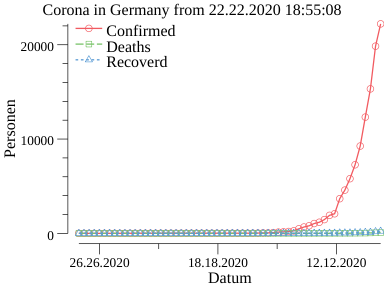
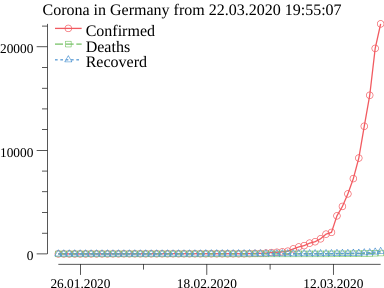
fix typo, remove axis label

diff --git a/corona/corona.go b/corona/corona.go
@@ -92,13 +92,8 @@ func SaveCoronaImage(c *Corona, image string) {
 		log.Fatal(err)
 	}
 
-	xticks := plot.TimeTicks{Format: "02.02.2006"}
-
-	//	log.Printf("Confirmed Timelines %+#v", c.Locations[0].Timelines.Confirmed.Timeline)
-
-	p.Title.Text = fmt.Sprintf("Corona in %s from %s\n\n", c.Locations[0].Country, c.Locations[0].LastUpdated.Format("02.02.2006 15:04:05"))
-	p.X.Label.Text = "Datum"
-	p.Y.Label.Text = "Personen"
+	xticks := plot.TimeTicks{Format: "02.01.2006"}
+	p.Title.Text = fmt.Sprintf("Corona in %s from %s\n\n", c.Locations[0].Country, c.Locations[0].LastUpdated.Format("02.01.2006 15:04:05"))
 	p.X.Tick.Marker = xticks
 	p.Legend.Left = true
 	p.Legend.Top = true

diff --git a/README.md b/README.md
@@ -1,6 +1,6 @@
 # Corona Graph
 
-Lodas Corona Data from https://coronavirus-tracker-api.herokuapp.com
+Get's Corona Data from https://coronavirus-tracker-api.herokuapp.com
 
 Creates a graph and saves it as corona.png
 
